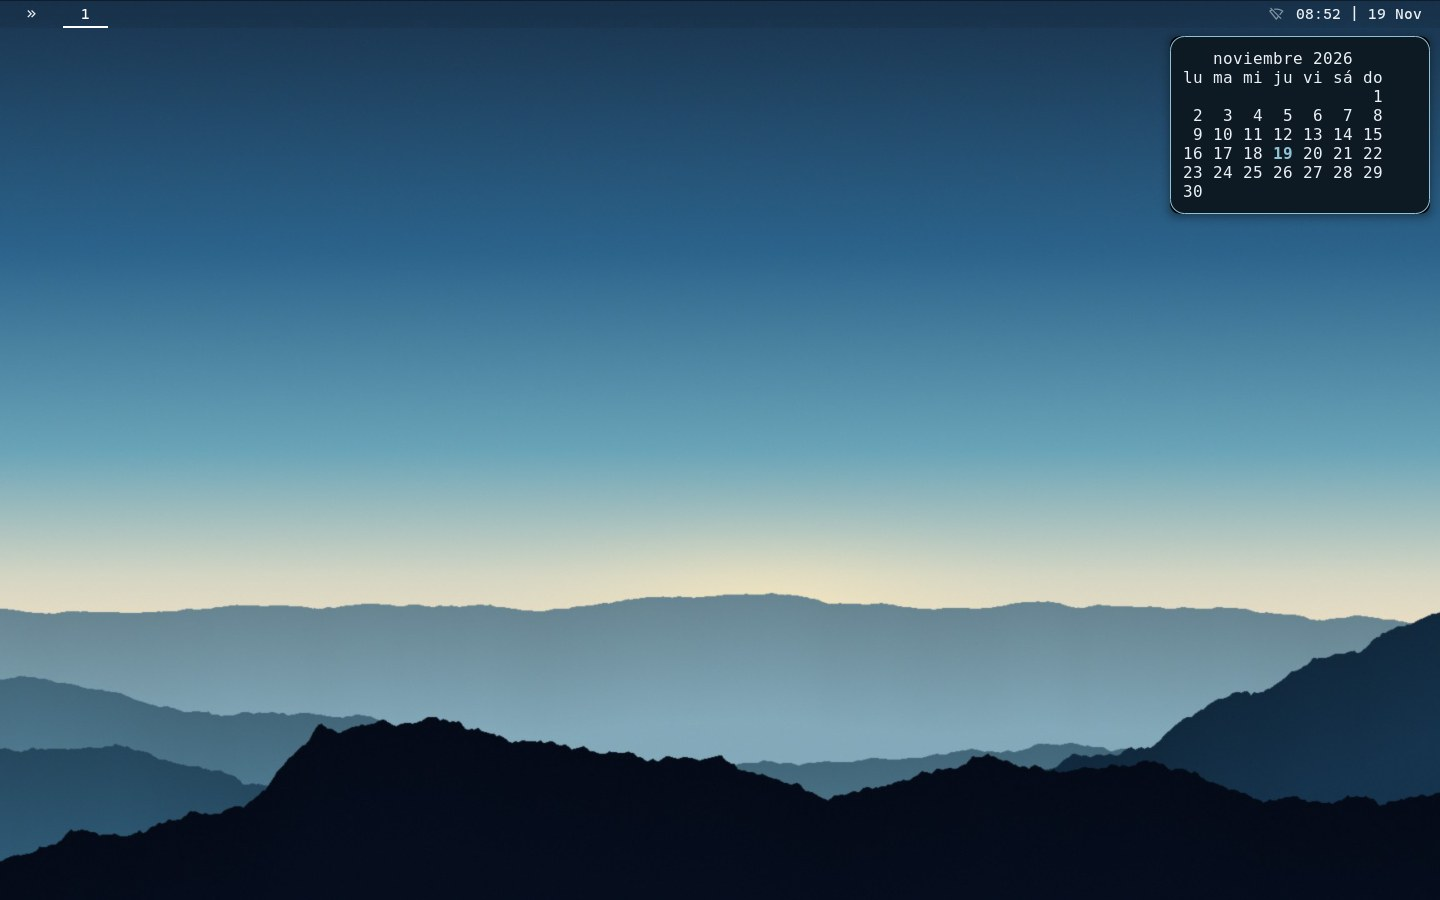
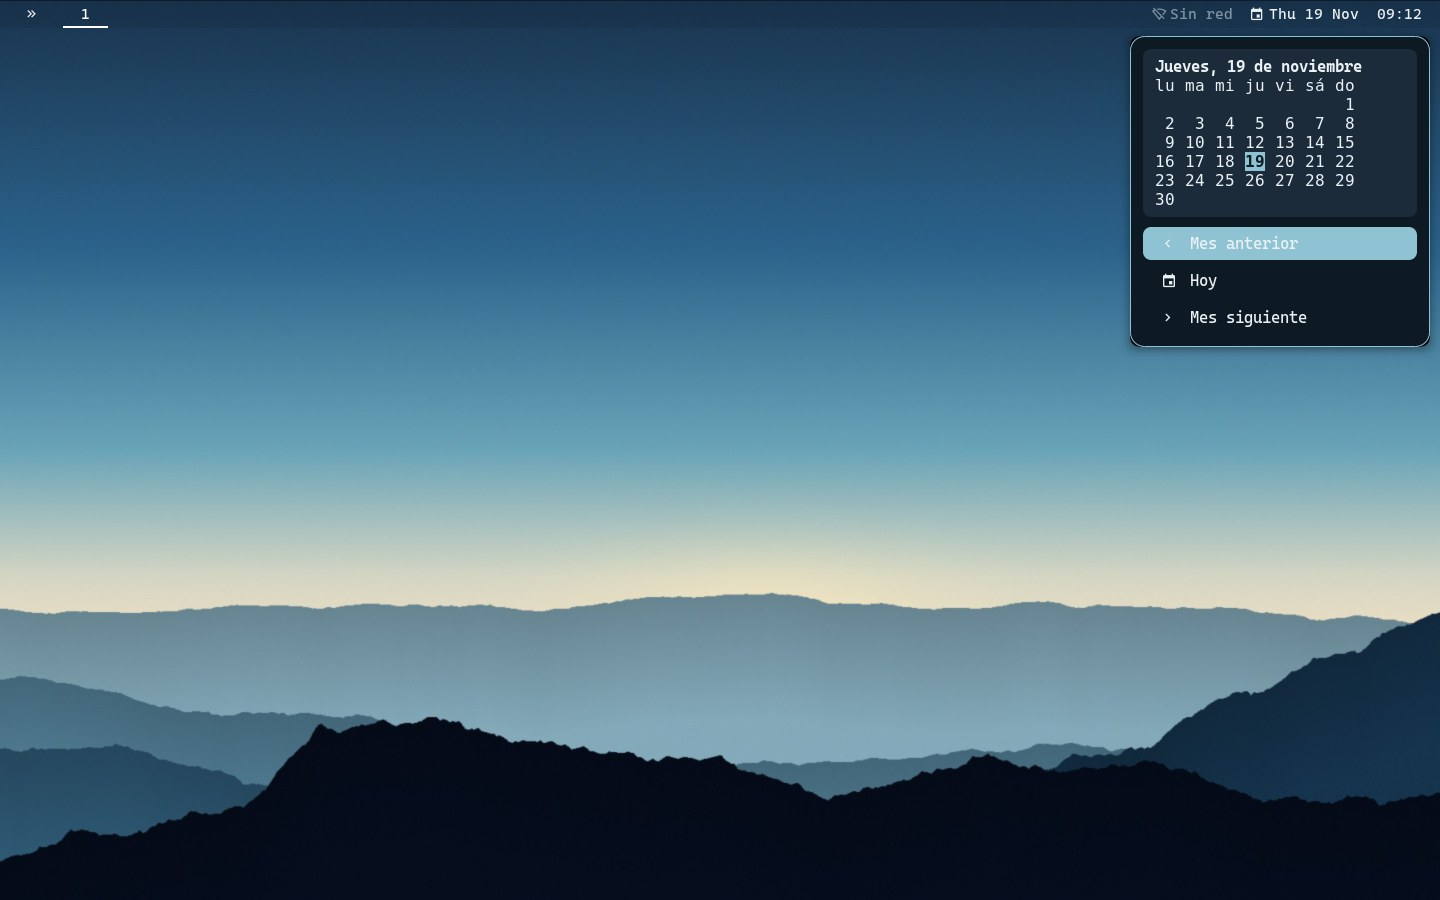
Polybar: Wi-Fi con nombre y menú mejorado, volumen con icono por nivel, calendario con fecha y navegación por meses; captura nueva
Claude-Session: https://claude.ai/code/session_01FS7Yjhmvjsd95xwGrJbZ1Z

Changed region(s): [[0.7812, 0.0311, 1.0, 0.4044], [0.8125, 0.0, 1.0, 0.0311]]

diff --git a/README.md b/README.md
@@ -304,7 +304,7 @@ También se prueba sin VirtualBox con QEMU (`qemu-system-aarch64 -M virt` + UEFI
 | `0.3.x-alpha` | publicadas | **sway** (mosaico/flotante), menús globales por app, Dock con ventanas reales, Alacritty, animación de minimizar y swayfx experimental. |
 | `0.4.0-beta` / `0.4.1-beta` | publicadas (prerrelease) | Asistente de bienvenida, estilos, widgets, Modos, Flathub, fish, servicio de antivirus; resolución adaptable (`bc-display`), iconos Qogir, portapapeles (Súper+V). |
 | `0.5.0-beta` | prerrelease, en pruebas | Entorno **Dotfiles (bspwm)** elegible en el login. Verificado en QEMU; sin probar en VirtualBox. |
-| `0.9.19-beta` | en preparación | Genio más ligero (capa del tamaño justo), Forzar salida (Ctrl+Alt+Esc), pista de la contraseña en el login, buscar en Notas con resaltado amarillo, controles más fieles (marcas, brillo, selección), selector de emoji, pestañas con «+» en Archivos, barra de franjas en la Tienda, bspwm arreglado (Alacritty, menús de Wi-Fi, sonido, Bluetooth, batería y calendario en la barra), controladores al instalar, elegir motor gráfico, iconos nuevos (alias, candado, discos, Bluetooth, carpeta de usuario, Instantáneas), cristal alineado con el fondo (lente solo en el filo). |
+| `0.9.19-beta` | en preparación | Genio más ligero (capa del tamaño justo), Forzar salida (Ctrl+Alt+Esc), pista de la contraseña en el login, buscar en Notas con resaltado amarillo, controles más fieles (marcas, brillo, selección), selector de emoji, pestañas con «+» en Archivos, barra de franjas en la Tienda, bspwm arreglado (Alacritty, menús de Wi-Fi, sonido, Bluetooth, batería y calendario en la barra; Wi-Fi con nombre, calendario con meses), controladores al instalar, elegir motor gráfico, iconos nuevos (alias, candado, discos, Bluetooth, carpeta de usuario, Instantáneas), cristal alineado con el fondo (lente solo en el filo). |
 | `0.9.18-beta` | prerelease (solo ISO) | Sin microcortes en VirtualBox (cortes cada 2 s, cristal que se recalculaba con cualquier ajuste, sin lente ni genio sin GPU), Terminal que maximiza, más fluido en máquinas virtuales (sway ligero, genio 4× más barato), firmware de gráficas en PCs reales, cristal con tinte del fondo, fondos de día y noche, claro/oscuro con fundido, globos y progreso en el Dock, punto de micrófono/cámara, Reducir transparencia y Aumentar contraste, Mission Control crea escritorios. |
 | `0.9.17-beta` | prerelease | Liquid Glass nuevo (liquid-glass-react), esquinas siempre, Dock reordenable, miniaturas de minimizadas, fish con colores, Tienda que instala, NVIDIA/nouveau con sway, resolución nativa con Hyprland, yay, zoom, menús del escritorio, nube «poof», miniatura de captura, barras de desplazamiento y rebote como macOS, Firefox con amarillo y verde en sway, Hyprland con varias pantallas. |
 | `0.9.14-beta` | prerelease | Login como macOS (fondo desenfocado, apagar abajo) con la resolución del usuario, esquinas suavizadas en todo el cristal, genio sin escalones. |

diff --git a/build/RELEASE-NOTES.md b/build/RELEASE-NOTES.md
@@ -13,3 +13,4 @@
 - **Barra de bspwm (polybar)**: cada módulo abre su menú con el tema de la barra (panel compacto bajo ella): Wi-Fi (redes, contraseña), Bluetooth (dispositivos), sonido (nivel, silencio, salida de audio y mezclador), batería y modo de energía, calendario en el reloj.
 - **Iconos nuevos** (propios, estilo macOS): alias y candado como emblemas sobre los archivos, discos ópticos y de red, imagen de disco, documento genérico, mando y altavoz Bluetooth, carpeta de usuario con silueta e icono de Instantáneas (nueva app en el Launchpad).
 - **Liquid Glass**: la lente solo curva el fondo en el filo; el interior coincide exactamente con lo que hay detrás (antes se desplazaba y no casaba).
+- **Polybar mejorada**: la Wi-Fi muestra el nombre de la red; el menú indica a qué estás conectado, señal y candado por red, desconectar y volver a buscar; el volumen cambia de icono según el nivel; el calendario muestra la fecha completa, hoy resaltado y se mueve entre meses.
